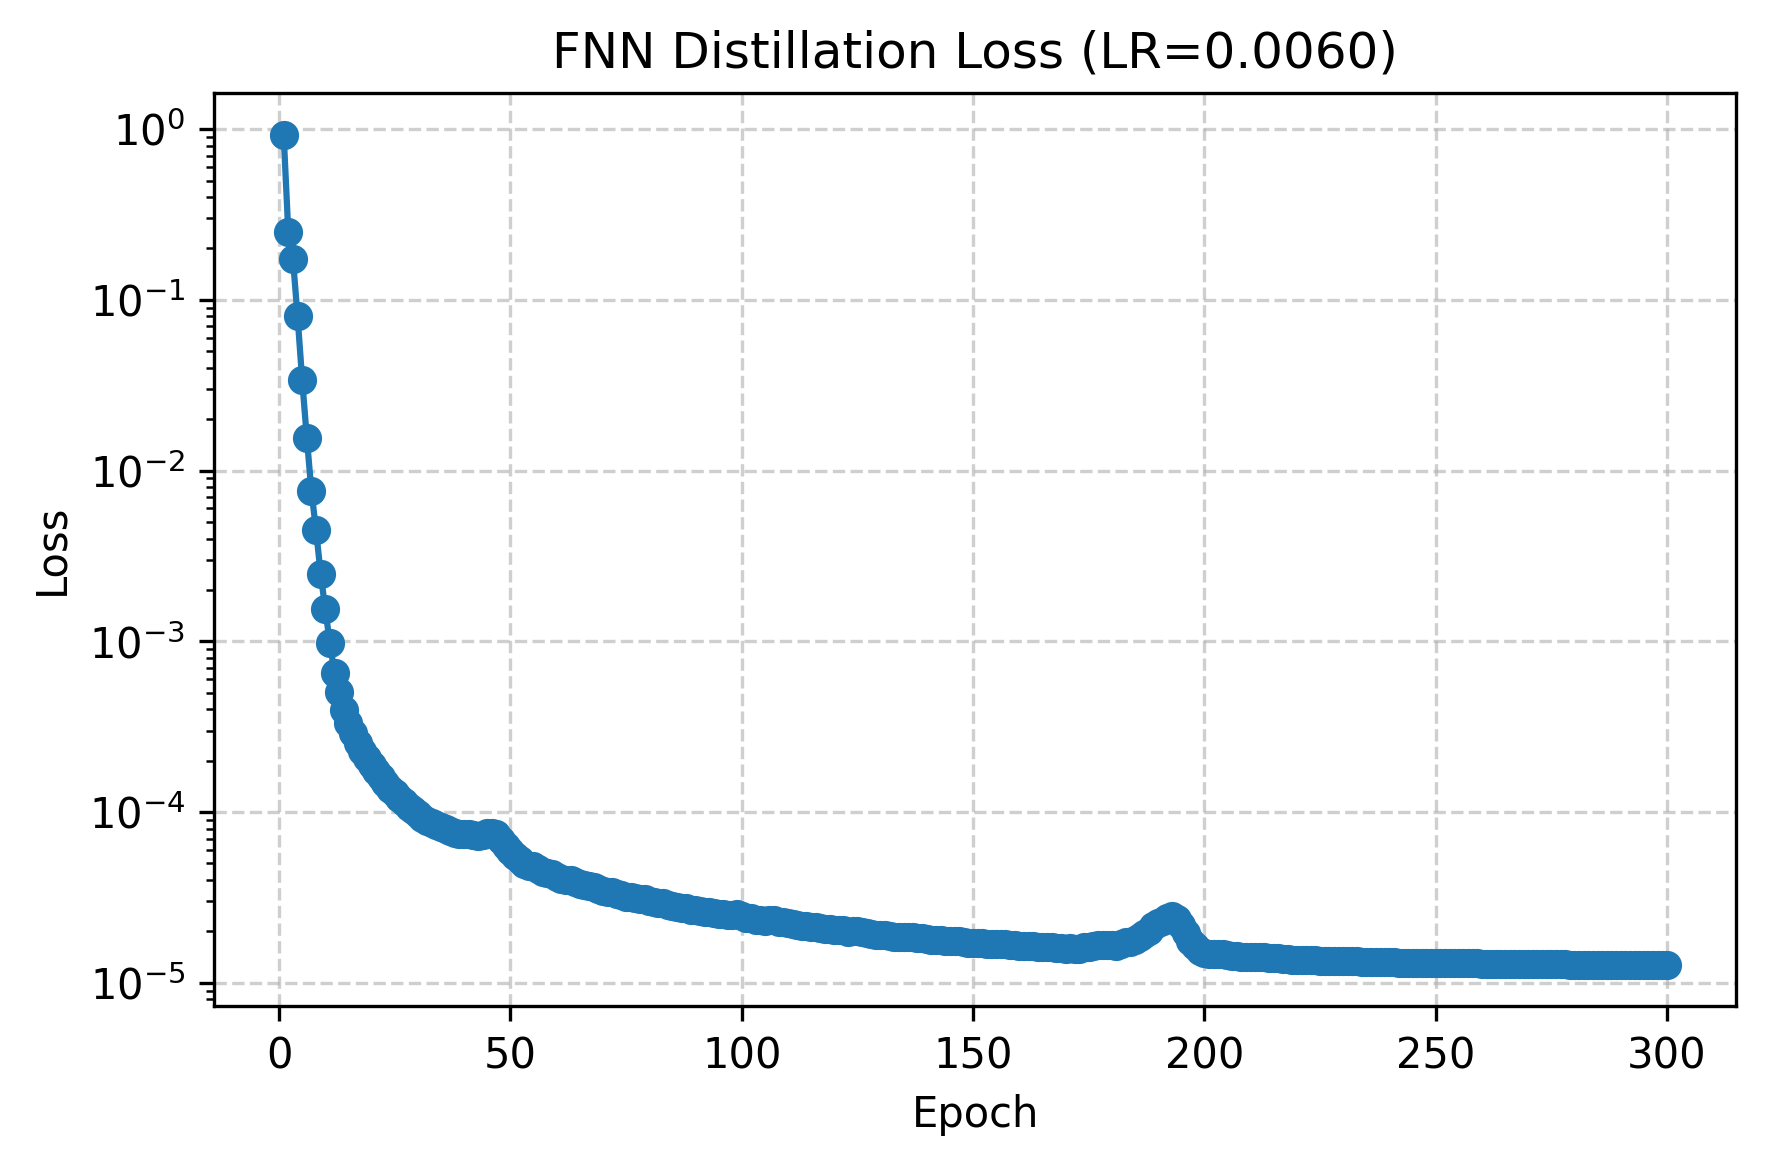
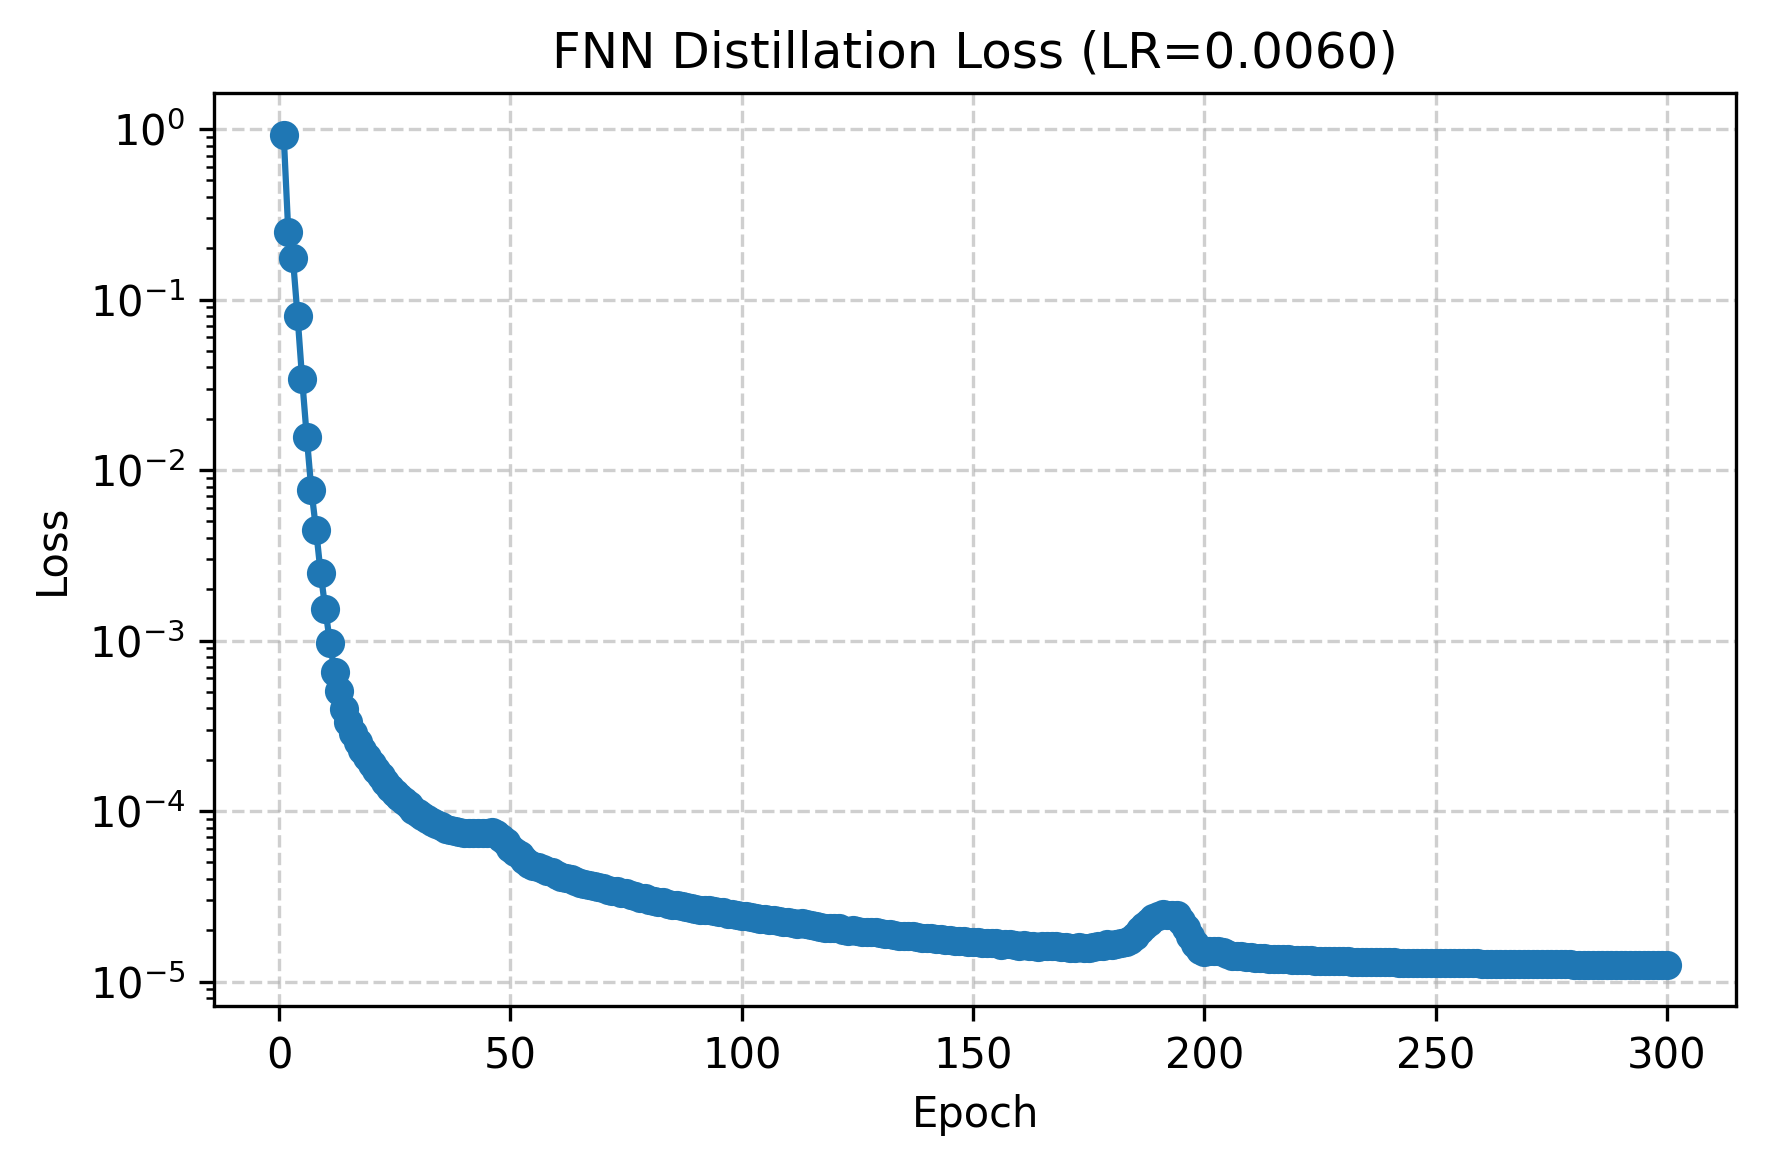
fnn time working

Changed region(s): [[0.6229, 0.7719, 0.6852, 0.8027], [0.0623, 0.6792, 0.0934, 0.7101]]

diff --git a/src/reservoir/models/nn/fnn.py b/src/reservoir/models/nn/fnn.py
@@ -5,23 +5,26 @@ Adapter is selected based on FNNConfig: Flatten (default) or TimeDelayEmbedding 
 
 from __future__ import annotations
 
-from typing import Any, Dict, Sequence, Optional
+from typing import Any, Dict, Sequence, Optional, Tuple
 
 import flax.linen as nn
 import jax.numpy as jnp
 
 from reservoir.models.config import FNNConfig
 from reservoir.models.nn.base import BaseFlaxModel
+from reservoir.models.generative import ClosedLoopGenerativeModel
 from reservoir.training.presets import TrainingConfig
 from reservoir.layers.adapters import Flatten, TimeDelayEmbedding
 
 
-class FNNModel(BaseFlaxModel):
+class FNNModel(BaseFlaxModel, ClosedLoopGenerativeModel):
     """
     FNN with configurable adapter (Step 4).
     
     If config.window_size is None: uses Flatten adapter (for classification)
     If config.window_size is set: uses TimeDelayEmbedding adapter (for time series regression)
+    
+    Also implements ClosedLoopGenerativeModel for autoregressive generation.
     """
 
     def __init__(self, model_config: FNNConfig, training_config: TrainingConfig, input_dim: int, output_dim: int, classification: bool = False):
@@ -32,6 +35,7 @@ class FNNModel(BaseFlaxModel):
 
         # Store window configuration
         self.window_size = model_config.window_size
+        self._output_dim = output_dim
         
         # Select adapter based on config
         if self.window_size is not None:
@@ -53,9 +57,10 @@ class FNNModel(BaseFlaxModel):
     def train(self, inputs: jnp.ndarray, targets: Optional[jnp.ndarray] = None, **kwargs: Any) -> Dict[str, Any]:
         """Train with adapter-transformed inputs (and aligned targets if windowed)."""
         # Log Step 4 (Adapter) only during training
-        log_label = f"4:TimeDelayEmbedding(k={self.window_size}):train" if self.window_size else None
-        adapted_inputs = self.adapter(inputs, log_label=log_label)
-        aligned_targets = self.adapter.align_targets(targets) if targets is not None else None
+        x_log_label = f"4:TimeDelayEmbedding(k={self.window_size}):X:train" if self.window_size else None
+        y_log_label = f"4:TimeDelayEmbedding(k={self.window_size}):y:train" if self.window_size else None
+        adapted_inputs = self.adapter(inputs, log_label=x_log_label)
+        aligned_targets = self.adapter.align_targets(targets, log_label=y_log_label) if targets is not None else None
 
         return super().train(adapted_inputs, aligned_targets, **kwargs)
 
@@ -77,6 +82,139 @@ class FNNModel(BaseFlaxModel):
 
     def _create_model_def(self) -> nn.Module:
         return FNN(layer_dims=self.layer_dims, return_hidden=False)
+
+    # ------------------------------------------------------------------ #
+    # ClosedLoopGenerativeModel implementation                           #
+    # ------------------------------------------------------------------ #
+    def initialize_state(self, batch_size: int = 1) -> jnp.ndarray:
+        """
+        For windowed FNN, state is the sliding window buffer of last `window_size` values.
+        For non-windowed FNN, state is a dummy.
+        """
+        if self.window_size is not None:
+            # State holds the sliding window buffer: (batch, window_size, features)
+            return jnp.zeros((batch_size, self.window_size, self._output_dim))
+        return jnp.zeros((batch_size, 1))
+
+    def step(self, state: jnp.ndarray, inputs: jnp.ndarray) -> Tuple[jnp.ndarray, jnp.ndarray]:
+        """
+        Single step for closed-loop generation.
+        For windowed FNN: concatenate window buffer to form input, predict, update buffer.
+        """
+        if inputs.ndim == 1:
+            inputs = inputs[None, :]
+        
+        if self.window_size is not None:
+            # state shape: (batch, window_size, features)
+            # Flatten window to (batch, window_size * features) for FNN input
+            batch_size = state.shape[0]
+            windowed_input = state.reshape(batch_size, -1)  # (batch, window_size * features)
+            
+            # Predict using base class (no adapter, already windowed)
+            output = super().predict(windowed_input)  # (batch, output_dim)
+            
+            # Update sliding window: shift left and append new prediction
+            # new_state = [state[:, 1:, :], output[:, None, :]]
+            new_state = jnp.concatenate([state[:, 1:, :], output[:, None, :]], axis=1)
+            
+            return new_state, output
+        else:
+            # Non-windowed: simple pass-through
+            output = super().predict(inputs)
+            return state, output
+
+    def forward(self, state: jnp.ndarray, input_data: jnp.ndarray) -> Tuple[jnp.ndarray, jnp.ndarray]:
+        """
+        Process seed sequence to initialize the sliding window state.
+        For windowed FNN: fill the window buffer with the last `window_size` values from input.
+        """
+        # input_data shape: (batch, time, features)
+        batch_size, seq_len, feat_dim = input_data.shape
+        
+        if self.window_size is not None:
+            # Initialize state with last window_size values from seed
+            # State shape: (batch, window_size, features)
+            if seq_len >= self.window_size:
+                initial_window = input_data[:, -self.window_size:, :]
+            else:
+                # Pad with zeros if seed is shorter than window
+                padding = jnp.zeros((batch_size, self.window_size - seq_len, feat_dim))
+                initial_window = jnp.concatenate([padding, input_data], axis=1)
+            
+            # Process seed through the windowed FNN to get outputs
+            outputs = []
+            current_state = initial_window
+            for t in range(self.window_size - 1, seq_len):
+                # Build window from input_data
+                window = input_data[:, t - self.window_size + 1:t + 1, :]  # (batch, window_size, feat)
+                windowed_input = window.reshape(batch_size, -1)
+                output = super().predict(windowed_input)
+                outputs.append(output)
+            
+            # Return final state (last window) and outputs
+            output_seq = jnp.stack(outputs, axis=1) if outputs else jnp.zeros((batch_size, 0, self._output_dim))
+            return initial_window, output_seq
+        else:
+            # Non-windowed: predict each timestep
+            outputs = []
+            for t in range(seq_len):
+                step_input = input_data[:, t, :]
+                output = super().predict(step_input)
+                outputs.append(output)
+            output_seq = jnp.stack(outputs, axis=1)
+            return state, output_seq
+
+    def generate_closed_loop(
+        self,
+        seed_data: jnp.ndarray,
+        steps: int,
+        readout: Any = None,
+        projection_fn: Any = None,
+        verbose: bool = True
+    ) -> jnp.ndarray:
+        """
+        FNN-specific closed-loop generation using simple 2D arrays.
+        Optimized with jax.lax.scan for speed.
+        """
+        import jax
+        
+        if self.window_size is None:
+            # Non-windowed: just predict directly
+            return self.predict(seed_data)
+        
+        # seed_data: (time, features) - use last window_size values as initial state
+        seed = jnp.asarray(seed_data, dtype=jnp.float32)
+        if seed.ndim == 3:
+            seed = seed[0]  # Remove batch dim if present: (1, T, F) -> (T, F)
+        
+        W = self.window_size
+        feat_dim = seed.shape[-1]
+        
+        # Initial window buffer: last W values from seed
+        if seed.shape[0] >= W:
+            window = seed[-W:, :]  # (W, features)
+        else:
+            padding = jnp.zeros((W - seed.shape[0], feat_dim))
+            window = jnp.concatenate([padding, seed], axis=0)
+        
+        if verbose:
+            print(f"    [FNN] Generating {steps} steps (JAX scan, window={W})...")
+        
+        def scan_step(window_state, _):
+            # window_state: (W, features)
+            # Flatten to (1, W * features) for FNN
+            windowed_input = window_state.reshape(1, -1)
+            output = super(FNNModel, self).predict(windowed_input)  # (1, output_dim)
+            output = output.squeeze(0)  # (output_dim,)
+            
+            # Shift window: drop oldest, append new prediction
+            new_window = jnp.concatenate([window_state[1:, :], output[None, :]], axis=0)
+            return new_window, output
+        
+        _, predictions = jax.lax.scan(scan_step, window, None, length=steps)
+        
+        # predictions: (steps, output_dim)
+        return predictions
 
 
 class FNN(nn.Module):

diff --git a/src/reservoir/layers/adapters.py b/src/reservoir/layers/adapters.py
@@ -46,6 +46,7 @@ class TimeDelayEmbedding:
     Flattening the batch and time dimensions allows standard FNNs to process the windows as independent samples.
     """
     def __init__(self, window_size: int = 10):
+        print(f"\n=== Step 4: Adapter ===")
         self.window_size = window_size
 
     def fit(self):
@@ -90,17 +91,21 @@ class TimeDelayEmbedding:
 
         return X_embedded
 
-    def align_targets(self, targets):
+    def align_targets(self, targets, log_label: Optional[str] = None):
         """Align targets by dropping first (window_size-1) timesteps to match windowed X."""
         targets = jnp.asarray(targets)
         W = self.window_size
         # Support 2D (T, Out)
         if targets.ndim == 2:
-            return targets[W-1:, :]
+            result = targets[W-1:, :]
+            if log_label is not None:
+                print_feature_stats(result, log_label)
+            return result
         # 3D (N, T, Out) -> (N, T - W + 1, Out) -> (N * T', Out)
         aligned = targets[:, W-1:, :]
         reshaped = aligned.reshape(-1, aligned.shape[-1])
-        print_feature_stats(reshaped, "4:TimeDelayEmbedding:y")
+        if log_label is not None:
+            print_feature_stats(reshaped, log_label)
         return reshaped
 
     def __call__(self, X, flatten_batch: bool = True, log_label: Optional[str] = None):

diff --git a/src/reservoir/models/nn/base.py b/src/reservoir/models/nn/base.py
@@ -122,6 +122,7 @@ class BaseFlaxModel(BaseModel, ABC):
         if targets is None:
             raise ValueError("BaseFlaxModel.train requires 'targets'.")
 
+        print(f"\n=== Step 5: Model Dynamics (Training/Warmup) [] ===")
         # 1. ここで一括してGPUに転送してしまう (MNIST程度なら余裕で乗ります)
         print("    [JAX] Transferring data to GPU...")
         inputs = jax.device_put(jnp.asarray(inputs, dtype=jnp.float32))

diff --git a/src/reservoir/pipelines/components/executor.py b/src/reservoir/pipelines/components/executor.py
@@ -36,7 +36,6 @@ class PipelineExecutor:
         processed = self.frontend_ctx.processed_split
         
         # Step 5: Model Dynamics (Training/Warmup)
-        print(f"\n=== Step 5: Model Dynamics (Training/Warmup) [{config.model_type.value}] ===")
         train_logs = self.stack.model.train(processed.train_X, processed.train_y) or {}
 
         # Step 6: Extract Features

diff --git a/src/reservoir/models/presets.py b/src/reservoir/models/presets.py
@@ -232,7 +232,7 @@ WINDOWED_FNN_PRESET = PipelineConfig(
     projection=None,  # No projection needed
     model=FNNConfig(
         hidden_layers=(100, 100),
-        window_size=3,  # This enables TimeDelayEmbedding adapter
+        window_size=64,  # This enables TimeDelayEmbedding adapter
     ),
     readout=None,  # FNN is end-to-end
 )
